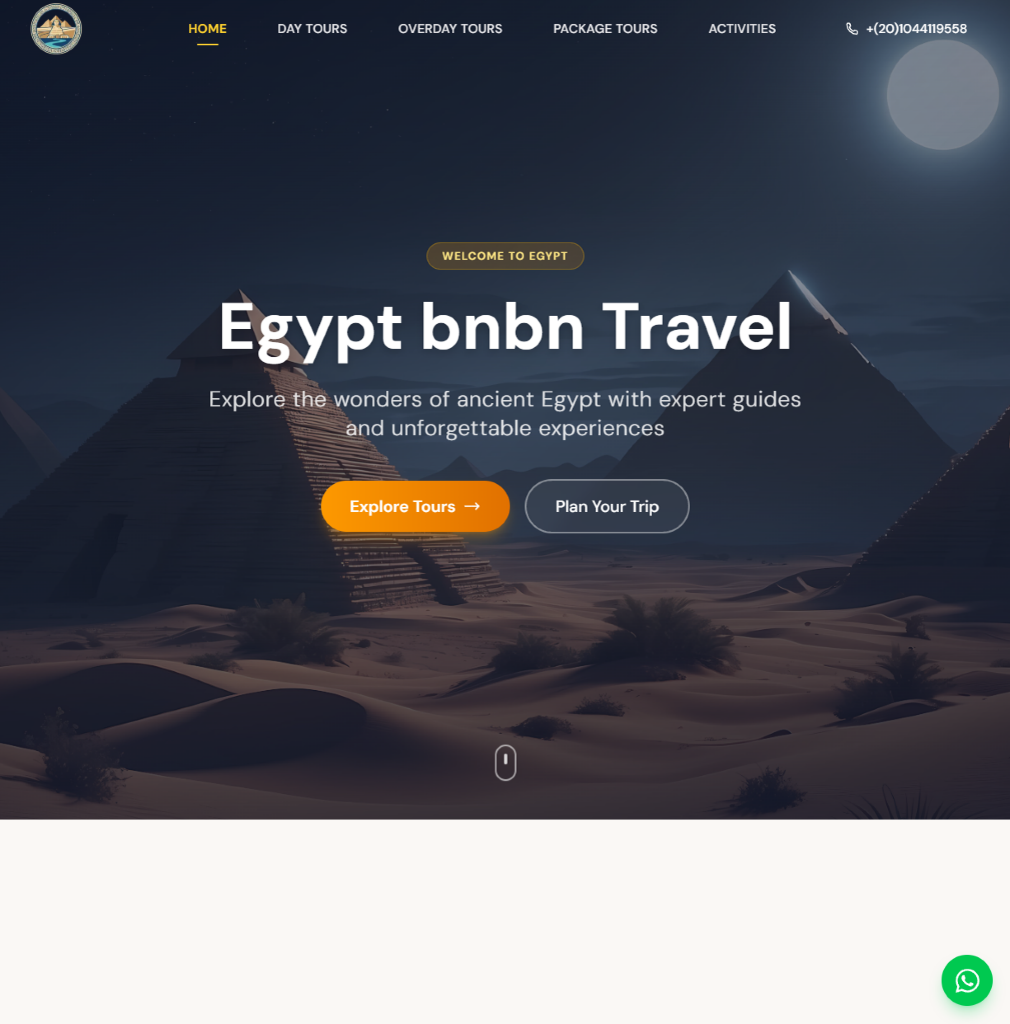
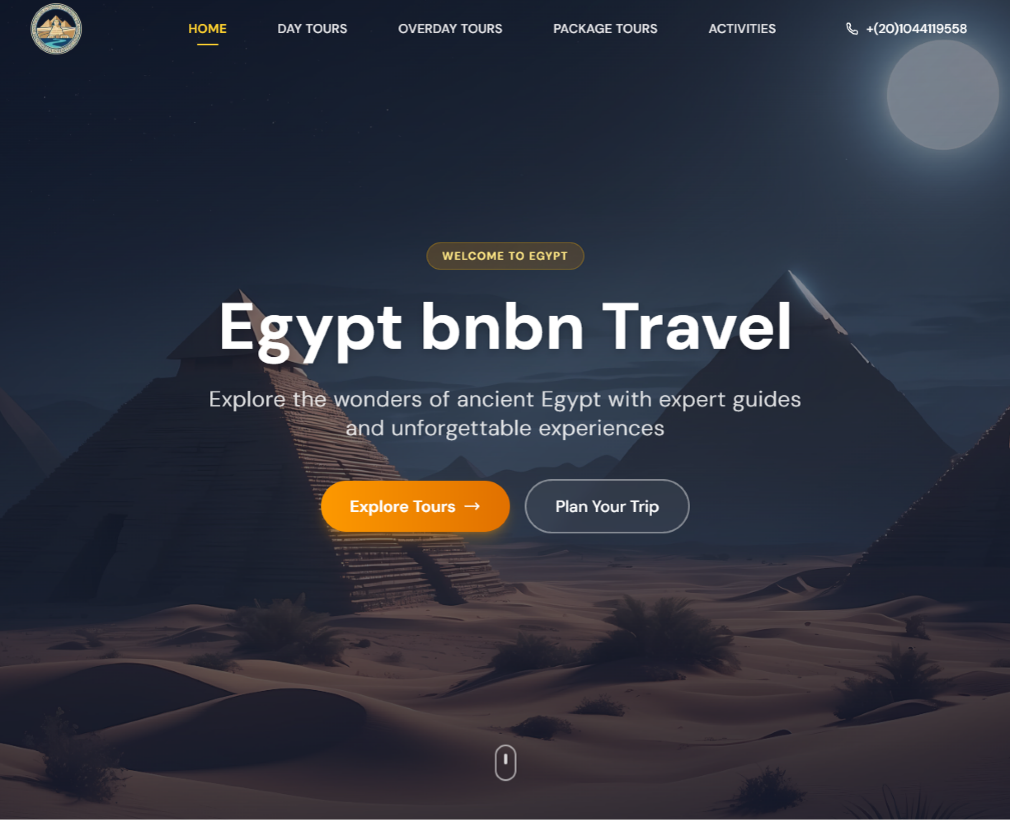
Polish project card thumbnails, About bio, and hero reveal timing

diff --git a/src/components/sections/Projects.js b/src/components/sections/Projects.js
@@ -20,8 +20,6 @@ function ProjectCard({
   coverImage,
   secondaryImage,
   coverFit,
-  screenshots,
-  video,
 }) {
   const metaLine = [year, ...tags].filter(Boolean).join(" · ");
 
@@ -31,60 +29,46 @@ function ProjectCard({
       className="group flex flex-col focus-visible:outline-2 focus-visible:outline-offset-4 focus-visible:outline-accent"
     >
       <div
-        className={`relative h-[300px] w-full overflow-hidden rounded-[20px] border border-line sm:h-[360px] lg:h-[420px] ${backdropTones[tone] ?? backdropTones.obsidian}`}
+        className={`relative aspect-[16/10] w-full overflow-hidden rounded-[20px] border border-line ${backdropTones[tone] ?? backdropTones.obsidian}`}
       >
-        {/* Subtle media count pill */}
-        <div className="pointer-events-none absolute top-4 left-4 z-20 flex items-center gap-2 rounded-full border border-white/15 bg-[#131314]/80 px-3 py-1 font-mono text-[11px] text-[#f6f2e7] backdrop-blur-sm">
-          {video && <span className="h-1.5 w-1.5 rounded-full bg-mint" />}
-          <span>
-            {video ? "Demo Video" : "Preview"} · {screenshots.length} screens
-          </span>
-        </div>
-
-        {coverFit === "contain" && secondaryImage ? (
-          <div className="flex h-full w-full items-center justify-center gap-4 px-5 pt-12 pb-5 transition-transform duration-500 ease-out group-hover:scale-[1.03] sm:gap-5 sm:px-8">
-            <div className="relative aspect-[4/5] h-full max-w-[47%] overflow-hidden rounded-2xl border border-white/15 bg-[#111917] shadow-2xl">
+        {coverFit === "mobile-pair" && secondaryImage ? (
+          <div className="relative flex h-full w-full items-end justify-center gap-5 px-6 pt-7 sm:gap-7 sm:px-10 sm:pt-9">
+            <div
+              aria-hidden="true"
+              className="pointer-events-none absolute inset-0 bg-[radial-gradient(ellipse_at_50%_15%,rgba(255,255,255,0.42),transparent_70%)]"
+            />
+            <div className="relative z-10 h-[94%] w-[38%] max-w-[196px] translate-y-3 transition-transform duration-500 ease-out group-hover:translate-y-1">
               <Image
                 src={coverImage}
-                alt={`${title} main screen`}
+                alt={`${title} home interface`}
                 fill
-                sizes="(max-width: 768px) 44vw, 240px"
-                className="object-contain"
+                sizes="(max-width: 768px) 38vw, 210px"
+                className="object-contain object-bottom drop-shadow-[0_20px_32px_rgba(12,24,20,0.38)]"
               />
             </div>
-            <div className="relative aspect-[4/5] h-[94%] max-w-[47%] translate-y-2 overflow-hidden rounded-2xl border border-white/15 bg-[#111917] shadow-2xl">
+            <div className="relative z-10 h-[86%] w-[38%] max-w-[196px] translate-y-5 transition-transform duration-500 ease-out group-hover:translate-y-2">
               <Image
                 src={secondaryImage}
-                alt={`${title} secondary screen`}
+                alt={`${title} execution trace interface`}
                 fill
-                sizes="(max-width: 768px) 44vw, 240px"
-                className="object-contain"
+                sizes="(max-width: 768px) 38vw, 210px"
+                className="object-contain object-bottom drop-shadow-[0_20px_32px_rgba(12,24,20,0.38)]"
               />
             </div>
           </div>
         ) : (
-          <div className="flex h-full w-full items-center justify-center p-5 pt-13 sm:p-7 sm:pt-14">
-            <div
-              className={`relative aspect-[16/10] w-full overflow-hidden rounded-xl border border-black/15 shadow-2xl transition-transform duration-500 ease-out group-hover:scale-[1.03] ${
-                tone === "mint"
-                  ? "bg-[#111514]"
-                  : tone === "lavender"
-                    ? "bg-[#121626]"
-                    : "bg-[#f7f7f2]"
-              }`}
-            >
-              <Image
-                src={coverImage}
-                alt={`${title} preview`}
-                fill
-                sizes="(max-width: 768px) 90vw, 640px"
-                className={
-                  coverFit === "cover-top"
-                    ? "object-cover object-top"
-                    : "object-contain"
-                }
-              />
-            </div>
+          <div className="relative h-full w-full transition-transform duration-500 ease-out group-hover:scale-[1.03]">
+            <Image
+              src={coverImage}
+              alt={`${title} preview`}
+              fill
+              sizes="(max-width: 768px) 92vw, 660px"
+              className={
+                coverFit === "cover-top"
+                  ? "object-cover object-top"
+                  : "object-cover object-center"
+              }
+            />
           </div>
         )}
       </div>

diff --git a/src/data/projects.js b/src/data/projects.js
@@ -12,10 +12,10 @@ export const projects = [
     description:
       "React Native mobile app for practicing scored technical interviews, tracing JavaScript execution line by line, and exploring six interactive data-structure labs.",
     tags: ["React Native", "Expo SDK 58", "TypeScript", "AI Mentor"],
-    tone: "obsidian",
-    coverImage: "/projects/devreps/03-meet-devreps-home.png",
-    secondaryImage: "/projects/devreps/02-js-trace-live.png",
-    coverFit: "contain",
+    tone: "mint",
+    coverImage: "/projects/devreps/cover-phone-home.png",
+    secondaryImage: "/projects/devreps/cover-phone-trace.png",
+    coverFit: "mobile-pair",
     links: [
       { label: "GitHub Repo", href: "https://github.com/zeyadkhaled2/devreps-mobile" },
       { label: "Backend API", href: "https://github.com/zeyadkhaled2/devreps-api" },
@@ -124,7 +124,7 @@ export const projects = [
     tone: "peach",
     coverImage: "/projects/yefhamak/01-hero-desktop.png",
     secondaryImage: "/projects/yefhamak/05-seller-orders.png",
-    coverFit: "cover",
+    coverFit: "cover-top",
     links: [
       { label: "Live Website", href: "https://yefhamak.vercel.app" },
       { label: "Interactive Demo", href: "https://yefhamak.vercel.app/demo" },
@@ -217,10 +217,10 @@ export const projects = [
     role: "Computer Vision & ML Engineer · Remote (Saudi Arabia)",
     description:
       "Built remotely with a team in Saudi Arabia — an end-to-end vision system progressing from Conv3D + LSTM (5-Fold CV) to a Hybrid YOLOv8n + 3D CNN + Motion Channel + Focal Loss architecture (0.948 Val / 0.865 Test F1 Macro).",
-    tags: ["PyTorch", "YOLOv8n", "3D CNN", "TensorFlow", "Computer Vision"],
+    tags: ["PyTorch", "YOLOv8n", "3D CNN", "Computer Vision"],
     tone: "mint",
     coverImage: "/projects/crowd-anomaly/yolo_sample_detection.jpg",
-    coverFit: "cover",
+    coverFit: "cover-top",
     links: [
       {
         label: "GitHub Repo",

diff --git a/src/components/ui/Reveal.js b/src/components/ui/Reveal.js
@@ -84,51 +84,51 @@ export function HeroTimeline({ children, className = "" }) {
 
         tl.fromTo(
           "[data-hero='badge']",
-          { opacity: 0, y: 12, rotation: -14 },
+          { opacity: 0, y: 10, rotation: -12 },
           {
             opacity: 1,
             y: 0,
             rotation: -9,
-            duration: 0.55,
+            duration: 0.4,
             ease: "power3.out",
             clearProps: "opacity",
           }
         )
           .fromTo(
             "[data-hero='headline']",
-            { opacity: 0, y: 20 },
+            { opacity: 0, y: 16 },
             {
               opacity: 1,
               y: 0,
-              duration: 0.65,
+              duration: 0.45,
               ease: "power3.out",
               clearProps: "transform,opacity",
             },
-            "-=0.35"
+            "-=0.25"
           )
           .fromTo(
             "[data-hero='desc']",
-            { opacity: 0, y: 14 },
-            {
-              opacity: 1,
-              y: 0,
-              duration: 0.55,
-              ease: "power3.out",
-              clearProps: "transform,opacity",
-            },
-            "-=0.38"
-          )
-          .fromTo(
-            "[data-hero='cta']",
             { opacity: 0, y: 12 },
             {
               opacity: 1,
               y: 0,
-              duration: 0.5,
+              duration: 0.4,
               ease: "power3.out",
               clearProps: "transform,opacity",
             },
-            "-=0.35"
+            "-=0.28"
+          )
+          .fromTo(
+            "[data-hero='cta']",
+            { opacity: 0, y: 10 },
+            {
+              opacity: 1,
+              y: 0,
+              duration: 0.35,
+              ease: "power3.out",
+              clearProps: "transform,opacity",
+            },
+            "-=0.26"
           );
       });
     },

diff --git a/src/components/sections/About.js b/src/components/sections/About.js
@@ -18,22 +18,24 @@ export default function About() {
 
           <Reveal delay={0.08} className="space-y-6 font-sans text-lg leading-relaxed text-ink-muted lg:col-span-7">
             <p className="text-xl leading-relaxed text-ink">
-              Placeholder bio — write two or three short paragraphs about who you are, what kind of
-              systems you enjoy architecting, and what you&apos;re focused on right now.
+              I&apos;m a software developer based in Cairo building web platforms, mobile apps, and
+              applied AI tools that turn complex workflows into calm, reliable products.
             </p>
             <p>
-              Keep it personal and specific. Mention what you care about in your craft — clean
-              interfaces, predictable engineering, and shipping products people genuinely enjoy using.
+              From shipping production Next.js booking sites and bilingual WhatsApp sales agents to
+              training multi-stage PyTorch computer-vision pipelines remotely with teams across Egypt
+              and Saudi Arabia, I care about clear architecture, responsive interfaces, and code
+              that holds up in production.
             </p>
             <div className="flex flex-wrap gap-3 pt-2">
               <span className="rounded-full border border-line px-4 py-1.5 font-mono text-xs text-ink">
                 Full-Stack Web
               </span>
               <span className="rounded-full border border-pink/60 px-4 py-1.5 font-mono text-xs text-pink">
-                Design Systems
+                React Native / Expo
               </span>
               <span className="rounded-full border border-mint/60 px-4 py-1.5 font-mono text-xs text-mint">
-                Product Craft
+                AI &amp; Computer Vision
               </span>
             </div>
           </Reveal>
